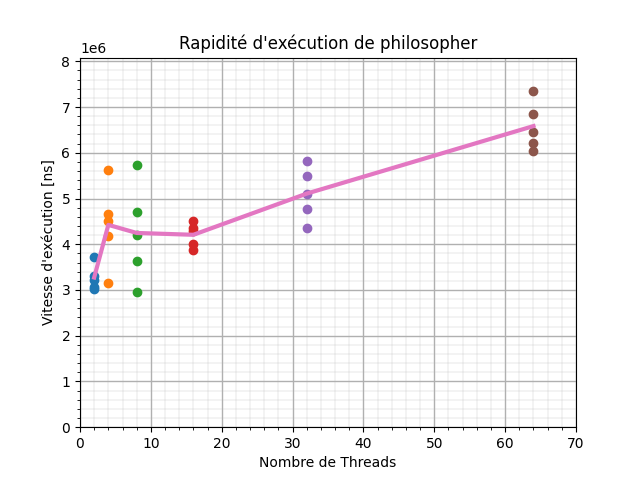
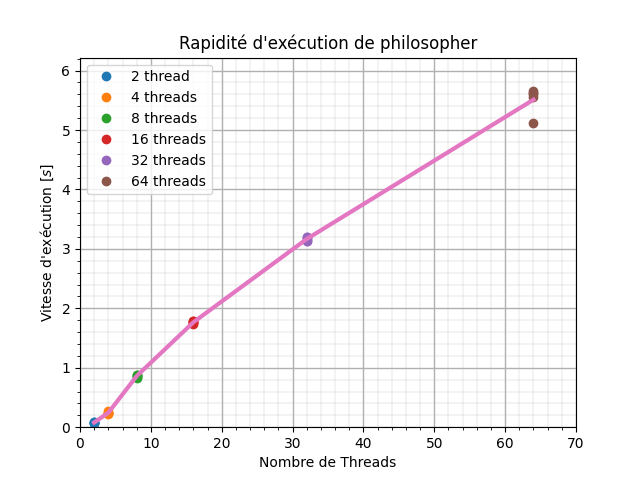
Mes philosophes réfléchissent bien

diff --git a/Inginious/P1/src/philosopher.c b/Inginious/P1/src/philosopher.c
@@ -11,20 +11,30 @@ pthread_mutex_t* baguette;
 
 
 
-void* philosophe (void* args){
-    int *id=(int *) args;
+void* philosophe ( void* arg ){
+    printf("%d\n", *((int*) arg));
+    int *id=(int *) arg;
     int left = *id;
-    int right = (left + 1);
-    for(int i=0;i< 10000000; i++) {
-        printf("Philosophe [%d] pense\n",*id);
-        pthread_mutex_lock(&baguette[left]);
-        printf("Philosophe [%d] possède baguette gauche [%d]\n",*id,left);
-        pthread_mutex_lock(&baguette[right]);
-        printf("Philosophe [%d] possède baguette droite [%d]\n",*id,right);
+
+    int right = 0;
+    if(*id == 0){
+        right = 1;
+    }else{
+        right = (left + 1) % *id; //PHILOSOPHES
+    }
+    int i = 0;
+    while(i<10000000) {
+        // philosophe pense
+        if(left<right) {
+            pthread_mutex_lock(&baguette[left]);
+            pthread_mutex_lock(&baguette[right]);
+        }else {
+            pthread_mutex_lock(&baguette[right]);
+            pthread_mutex_lock(&baguette[left]);
+        }
         pthread_mutex_unlock(&baguette[left]);
-        printf("Philosophe [%d] a libéré baguette gauche [%d]\n",*id,left);
         pthread_mutex_unlock(&baguette[right]);
-        printf("Philosophe [%d] a libéré baguette droite [%d]\n",*id,right);
+        i++;
     }
     return (NULL);
 }
@@ -36,15 +46,40 @@ void philosopher(int N){
     
     pthread_t* phil = (pthread_t*) malloc(sizeof(pthread_t)*N);
     baguette = (pthread_mutex_t*) malloc(sizeof(pthread_mutex_t)*N);
+    int* ID;
+
 
     for(int i = 0; i < N; i++){
 
-        if (pthread_create(&(phil[i]),0, &philosophe, &i) != 0){
+        if (pthread_mutex_init(&baguette[i], NULL) != 0) { 
+            printf("\n mutex init has failed\n"); 
+            return; 
+        } 
+
+        ID = malloc(sizeof(int));
+        *ID = i;
+
+
+        if (pthread_create(&(phil[i]), NULL, philosophe, (void*) ID) != 0){
             printf("Issue with thread %d\n", i);
             return;
         }
 
     }
+
+    // Wait for threads to finish
+    for (int i = 0; i < N; i++) {
+        pthread_join(phil[i], NULL);
+    }
+
+    for (int i = 0; i < N; i++){
+        pthread_mutex_destroy(&(baguette[i]));
+    }
+
+    free(phil);
+    free(baguette);
+    free(ID);
+
 }
 
 int main(int argc, char** argv){

diff --git a/Inginious/P1/perf/plot.py b/Inginious/P1/perf/plot.py
@@ -3,31 +3,42 @@ import pandas as pd
 import matplotlib.pyplot as plt 
 import os 
 
+timeScale = ["ns", "µs", "ms", "s"]
+
 for f in os.listdir("perf"):
     if f.split(".")[-1] == "csv":
-        data = pd.read_csv(f"perf/{f}")
+        data = pd.read_csv(f"perf/{f}")        
         fig, ax = plt.subplots()
-        maximum = 0
+        maximum = data.to_numpy().max()
         width = data.shape[1]
+        
+        track = 0
+        time_scale = timeScale[track]
+        big = maximum
+        while big // 1000 != 0 and track < 3:
+            big = big // 1000
+            track+=1
+    
         
         av = np.zeros(width)
         t = np.zeros(width)
         
         for i,col in enumerate(data.columns):
             nb_threads = int(col.strip().split()[0])
-            ax.plot(np.ones(len(data[col]))*nb_threads, data[col], "o")
-            maximum = max(maximum, data[col].max())
+            ax.plot(np.ones(len(data[col]))*nb_threads, data[col]/(1000**track), "o", label=col.strip())
             av[i] = data[col].mean()
             t[i] = nb_threads
             
-        ax.plot(t, av, linewidth=3)
+    
+        ax.legend()
+        ax.plot(t, av/(1000**track), linewidth=3)
         
         ax.set_title(f"Rapidité d'exécution de {f.split(".")[0]}")
         ax.set_xlabel("Nombre de Threads")
         ax.set_xlim(0, 70)
         
-        ax.set_ylabel("Vitesse d'exécution [ns]")
-        ax.set_ylim(0, maximum*1.1)
+        ax.set_ylabel(f"Vitesse d'exécution [${timeScale[track]}$]")
+        ax.set_ylim(0, maximum/(1000**track)*1.1)
 
         ax.minorticks_on()
         ax.grid(which = "major", linewidth = 1)

diff --git a/Inginious/P1/src/prod-cons.c b/Inginious/P1/src/prod-cons.c
@@ -94,6 +94,7 @@ void* consumer(void* rien){
     for(int i = 0; i<10000; i++){}
 
     }
+    product -= product; // DUMMY TO BE DELTED
     return NULL;
 }
 

diff --git a/Inginious/P1/README.md b/Inginious/P1/README.md
@@ -1,0 +1,37 @@
+# Projet 1 - LINFO1252
+
+- [Projet 1 - LINFO1252](#projet-1---linfo1252)
+  - [Commandes Utiles](#commandes-utiles)
+  - [Description](#description)
+    - [Partie 1](#partie-1)
+  - [Résultat](#résultat)
+    - [Partie 1](#partie-1-1)
+
+
+
+## Commandes Utiles
+
+À exécuter dans le fichier P1 (source)
+
+|     commande      |                                                  description                                                   |
+| :---------------: | :------------------------------------------------------------------------------------------------------------: |
+| `make` `make all` |                            Compile tous les fichiers `.C` des différentes parties.                             |
+|    `make test`    | Lance le script bash [`eval.sh`](perf/eval.sh) qui relève les données sur la rapidité d'exécution et les plot. |
+|   `make clean`    |                                     Supprime tous les exécutables générés.                                     |
+
+
+
+## Description
+
+### Partie 1
+Nous avons implémenter le problème des philosophes dans ce [fichier](src/philosopher.c).
+
+## Résultat
+
+### Partie 1
+
+Pour réaliser les tests de 
+
+![philosopher](perf/philosopher_plot.png)
+![prod-cons](perf/prod-cons_plot.png)
+![reader-writer](perf/reader-writer_plot.png)
